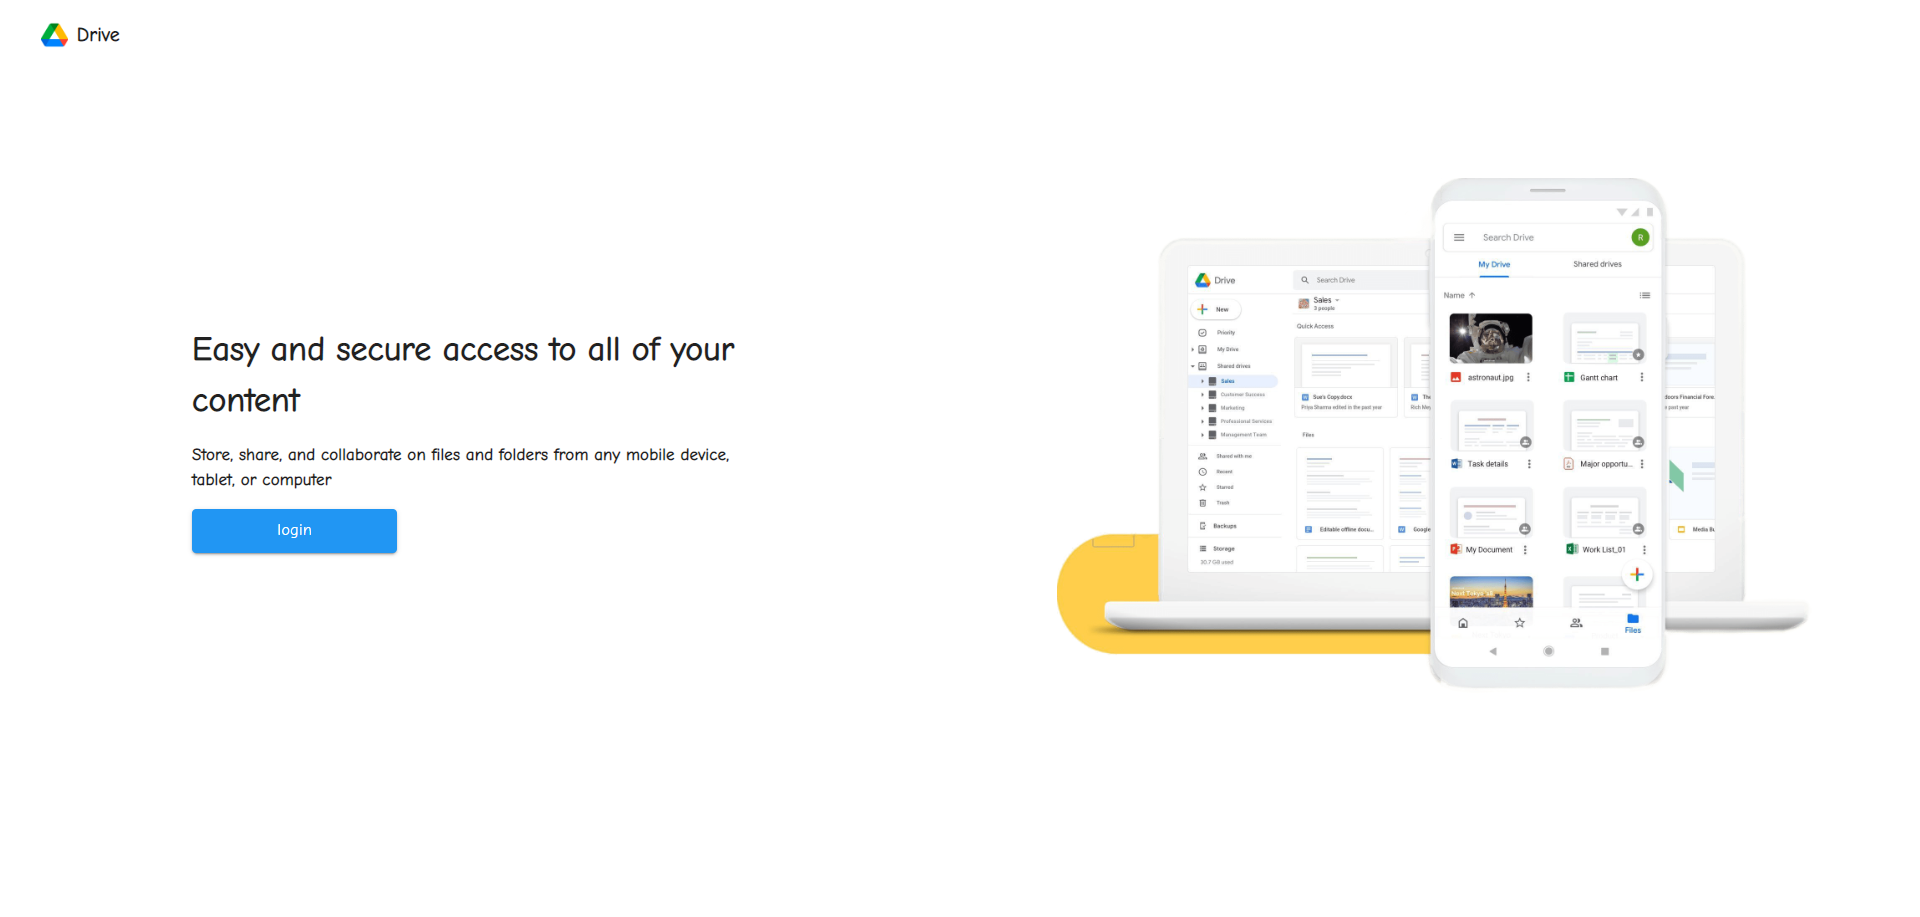
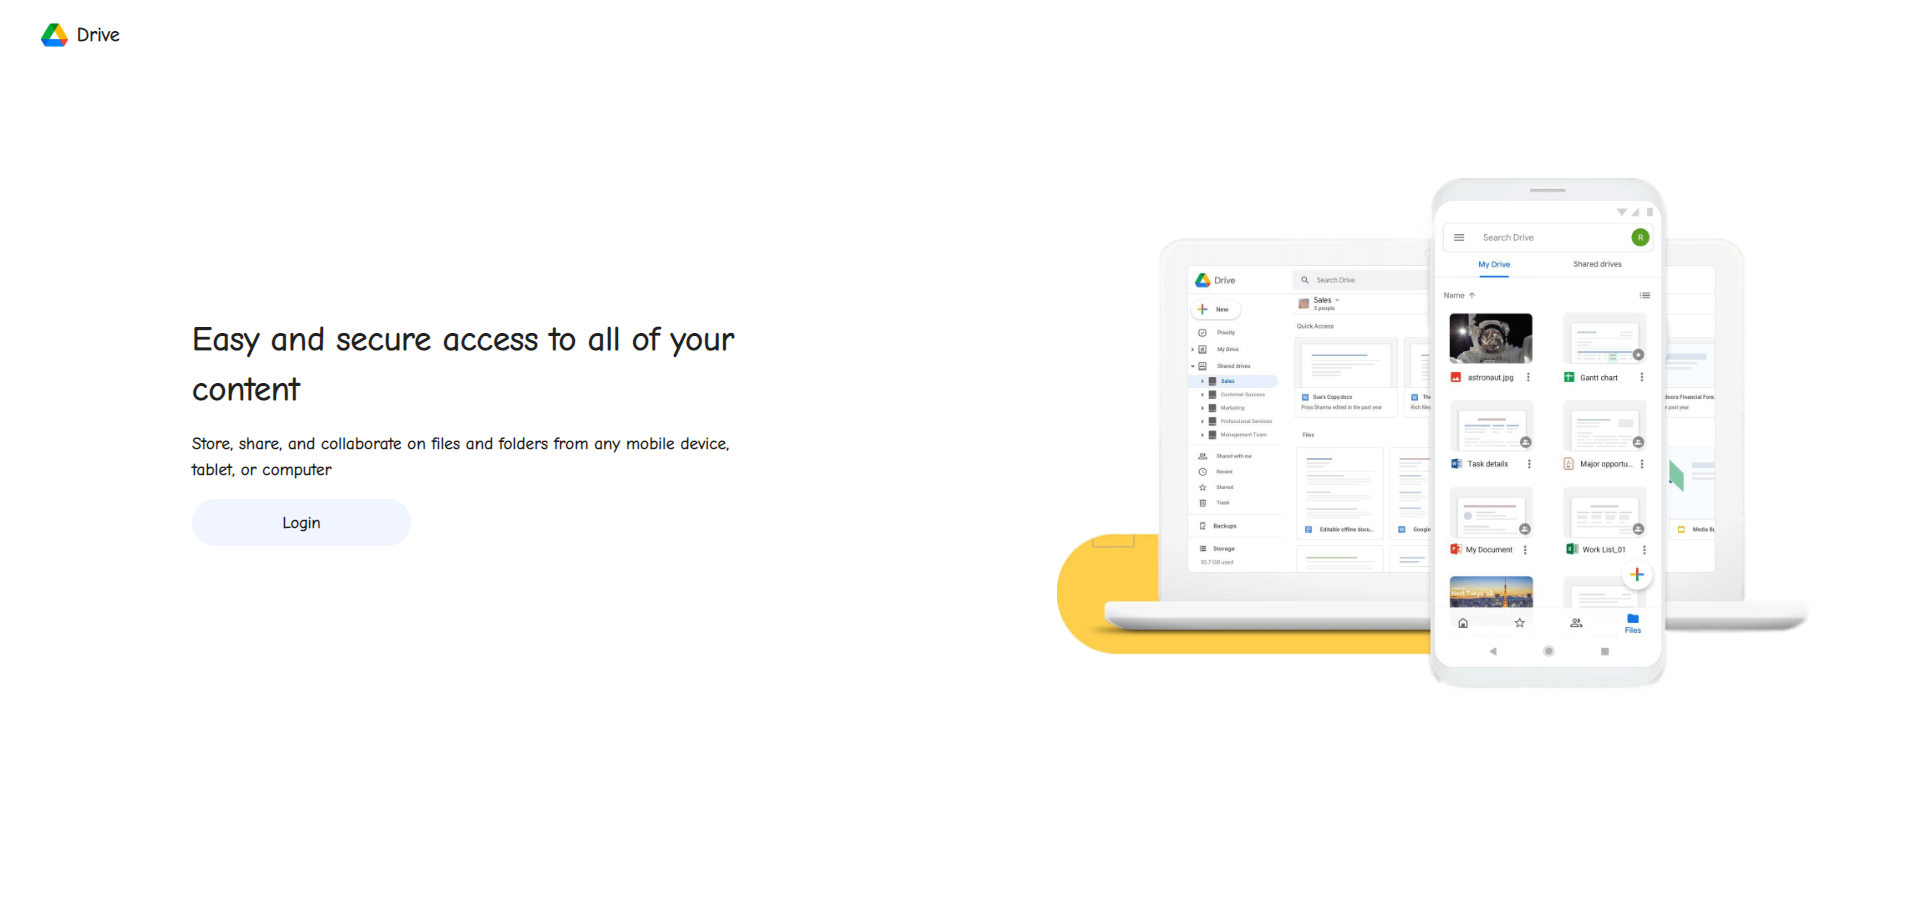
Readme update

Changed region(s): [[0.0938, 0.3362, 0.375, 0.6114], [0.75, 0.6419, 0.7812, 0.6725]]

diff --git a/client/src/components/Leftbar.js b/client/src/components/Leftbar.js
@@ -4,11 +4,11 @@ import DeleteOutlinedIcon from '@mui/icons-material/DeleteOutlined';
 import StarBorderPurple500OutlinedIcon from '@mui/icons-material/StarBorderPurple500Outlined';
 import AccessTimeOutlinedIcon from '@mui/icons-material/AccessTimeOutlined';
 import '../css/leftbar.css'
-import { Link } from "react-router-dom";
+import { NavLink } from "react-router-dom";
 import AddIcon from '@mui/icons-material/Add';
 import CreateNewFolderIcon from '@mui/icons-material/CreateNewFolder';
 import UploadFileIcon from '@mui/icons-material/UploadFile';
-import { Button, Dialog, DialogActions, DialogContent, DialogContentText, DialogTitle, Menu, MenuItem, TextField } from '@mui/material';
+import { Dialog, DialogActions, DialogContent, DialogContentText, DialogTitle, Menu, MenuItem, TextField } from '@mui/material';
 import { AppContext } from '../App'
 
 export const Leftbar = () => {
@@ -43,7 +43,7 @@ export const Leftbar = () => {
     }
     return (
         <div className='leftbar' style={{ width: '13%' }}>
-            <button onClick={handleClick} style={{ width: '45%', display: 'flex', flexDirection: 'row', justifyContent: 'center', alignItems: 'center', backgroundColor: 'rgba(0, 0, 0, 0.12)', outline: 'none', border: 'none', height: '39px', borderRadius: '32px', marginLeft: '22px', cursor: 'pointer', marginBottom: '7px', marginTop: '15px', color: 'inherit' }}><AddIcon style={{ marginRight: '6px', marginLeft: '-9px' }} /><h4>New</h4></button>
+            <button onClick={handleClick} style={{ width: '45%', display: 'flex', flexDirection: 'row', justifyContent: 'center', alignItems: 'center', backgroundColor: context.dark ? "rgb(61,102,94)" : '#F0F5FF', outline: 'none', border: 'none', height: '39px', borderRadius: '32px', marginLeft: '22px', cursor: 'pointer', marginBottom: '17px', marginTop: '15px', color: 'inherit' }}><AddIcon style={{  width: '27px', height: '25px',marginRight: '6px', marginLeft: '-9px' }} /><h4>New</h4></button>
             <Menu
                 id="basic-menu"
                 anchorEl={anchorEl}
@@ -57,7 +57,7 @@ export const Leftbar = () => {
                     onClick={() => { handleClickOpenDialog(); handleClose() }}
 
                 ><CreateNewFolderIcon style={{ width: '19px', height: '19px', marginRight: '15px' }} /><h5>New Folder</h5></MenuItem>
-                <input type="file" id="fileup" onChange={(e)=>{e.preventDefault();handleUpdate(e)}} hidden />
+                <input type="file" id="fileup" onChange={(e) => { e.preventDefault(); handleUpdate(e) }} hidden />
                 <label htmlFor="fileup">
                     <MenuItem sx={{ display: 'flex', flexDirection: 'row', alignItems: 'center', justifyContent: 'center', fontFamily: 'Comic Neue' }} >
                         <UploadFileIcon style={{ width: '19px', height: '19px', marginRight: '15px' }} /><h5>File Upload</h5>
@@ -82,26 +82,46 @@ export const Leftbar = () => {
                     />
                 </DialogContent>
                 <DialogActions>
-                    <Button sx={{ fontFamily: 'Comic Neue' }} onClick={handleCloseDialog}><h5>Cancel</h5></Button>
-                    <Button sx={{ fontFamily: 'Comic Neue' }} onClick={fileCreateHandle}><h5>Create</h5></Button>
+
+                    <button onClick={handleCloseDialog} style={{ width: '18%', display: 'flex', flexDirection: 'row', justifyContent: 'center', alignItems: 'center', backgroundColor: context.dark ? "rgb(61,102,94)" : '#F0F5FF', outline: 'none', border: 'none', height: '39px', borderRadius: '32px', marginLeft: '22px', cursor: 'pointer', marginBottom: '17px', marginTop: '15px', color: 'inherit' }}><h4>Cancel</h4></button>
+                    <button onClick={fileCreateHandle} style={{ width: '18%', display: 'flex', flexDirection: 'row', justifyContent: 'center', alignItems: 'center', backgroundColor: context.dark ? "rgb(61,102,94)" : '#F0F5FF', outline: 'none', border: 'none', height: '39px', borderRadius: '32px', marginLeft: '22px', cursor: 'pointer', marginBottom: '17px', marginTop: '15px', color: 'inherit', marginRight: '9px' }}><h4>Create</h4></button>
+
+                    {/* <Button sx={{ fontFamily: 'Comic Neue' }} onClick={handleCloseDialog}><h5>Cancel</h5></Button>
+                    <Button sx={{ fontFamily: 'Comic Neue' }} onClick={fileCreateHandle}><h5>Create</h5></Button> */}
                 </DialogActions>
             </Dialog>
-            <Link to="/mydrive" className="tags" style={{ marginLeft: '22px', display: 'flex', flexDirection: 'row', alignItems: 'center', marginBottom: '7px', marginTop: '7px', textDecoration: 'none', height: '39px', paddingLeft: '9px', borderRadius: '7px 25px 25px 7px', textDecorationColor: 'none', color: 'inherit' }}>
-                <AddToDriveOutlinedIcon style={{ width: '19px', height: '19px', marginRight: '15px' }} />
-                <h5>My Drive</h5>
-            </Link>
-            <Link to="/recent" className="tags" style={{ marginLeft: '22px', display: 'flex', flexDirection: 'row', alignItems: 'center', marginBottom: '7px', marginTop: '7px', textDecoration: 'none', height: '39px', paddingLeft: '9px', borderRadius: '7px 25px 25px 7px', textDecorationColor: 'none', color: 'inherit' }}>
-                <AccessTimeOutlinedIcon style={{ width: '19px', height: '19px', marginRight: '15px' }} />
+            <NavLink to="/mydrive"
+                className={({ isActive }) =>
+                    isActive ? context.dark ? "tagsdark darkactive" : "tags lightactive" : context.dark ? "tagsdark" : "tags"
+                }
+                style={{ marginLeft: '22px', display: 'flex', flexDirection: 'row', alignItems: 'center', marginBottom: '7px', marginTop: '7px', textDecoration: 'none', height: '39px', paddingLeft: '9px', borderRadius: '7px 25px 25px 7px', textDecorationColor: 'none', color: 'inherit' }}>
+                <AddToDriveOutlinedIcon style={{ width: '23px', height: '22px', marginRight: '15px' }} />
+                <h5 >My Drive</h5>
+            </NavLink>
+            <NavLink
+                className={({ isActive }) =>
+                    isActive ? context.dark ? "tagsdark darkactive" : "tags lightactive" : context.dark ? "tagsdark" : "tags"
+                }
+                to="/recent" style={{ marginLeft: '22px', display: 'flex', flexDirection: 'row', alignItems: 'center', marginBottom: '7px', marginTop: '7px', textDecoration: 'none', height: '39px', paddingLeft: '9px', borderRadius: '7px 25px 25px 7px', textDecorationColor: 'none', color: 'inherit' }}>
+                <AccessTimeOutlinedIcon style={{ width: '23px', height: '22px', marginRight: '15px' }} />
                 <h5>Recent</h5>
-            </Link>
-            <Link to="/starred" className="tags" style={{ marginLeft: '22px', display: 'flex', flexDirection: 'row', alignItems: 'center', marginBottom: '7px', marginTop: '7px', textDecoration: 'none', height: '39px', paddingLeft: '9px', borderRadius: '7px 25px 25px 7px', textDecorationColor: 'none', color: 'inherit' }}>
-                <StarBorderPurple500OutlinedIcon style={{ width: '19px', height: '19px', marginRight: '15px' }} />
+            </NavLink>
+            <NavLink
+                className={({ isActive }) =>
+                    isActive ? context.dark ? "tagsdark darkactive" : "tags lightactive" : context.dark ? "tagsdark" : "tags"
+                }
+                to="/starred" style={{ marginLeft: '22px', display: 'flex', flexDirection: 'row', alignItems: 'center', marginBottom: '7px', marginTop: '7px', textDecoration: 'none', height: '39px', paddingLeft: '9px', borderRadius: '7px 25px 25px 7px', textDecorationColor: 'none', color: 'inherit' }}>
+                <StarBorderPurple500OutlinedIcon style={{ width: '23px', height: '22px', marginRight: '15px' }} />
                 <h5>Starred</h5>
-            </Link>
-            <Link to="/trash" className="tags" style={{ marginLeft: '22px', display: 'flex', flexDirection: 'row', alignItems: 'center', marginBottom: '7px', marginTop: '7px', textDecoration: 'none', height: '39px', paddingLeft: '9px', borderRadius: '7px 25px 25px 7px', textDecorationColor: 'none', color: 'inherit' }}>
-                <DeleteOutlinedIcon style={{ width: '19px', height: '19px', marginRight: '15px' }} />
+            </NavLink>
+            <NavLink
+                className={({ isActive }) =>
+                    isActive ? context.dark ? "tagsdark darkactive" : "tags lightactive" : context.dark ? "tagsdark" : "tags"
+                }
+                to="/trash" style={{ marginLeft: '22px', display: 'flex', flexDirection: 'row', alignItems: 'center', marginBottom: '7px', marginTop: '7px', textDecoration: 'none', height: '39px', paddingLeft: '9px', borderRadius: '7px 25px 25px 7px', textDecorationColor: 'none', color: 'inherit' }}>
+                <DeleteOutlinedIcon style={{ width: '23px', height: '22px', marginRight: '15px' }} />
                 <h5>Trash</h5>
-            </Link>
+            </NavLink>
         </div>
     )
 }

diff --git a/client/src/components/Navbar.js b/client/src/components/Navbar.js
@@ -1,4 +1,4 @@
-import React, { } from 'react'
+import React, { useContext } from 'react'
 import logo from '../assets/logo.png'
 import Avatar from '@mui/material/Avatar';
 // import AppsIcon from '@mui/icons-material/Apps';
@@ -8,10 +8,11 @@ import MenuItem from '@mui/material/MenuItem';
 import { Box, LinearProgress } from '@mui/material';
 import LogoutIcon from '@mui/icons-material/Logout';
 import Brightness4Icon from '@mui/icons-material/Brightness4';
-
+import { AppContext } from '../App';
+import '../css/Navbar.css'
 
 export const Navbar = (props) => {
-
+    const context = useContext(AppContext)
     const [anchorEl, setAnchorEl] = React.useState(null);
     const open = Boolean(anchorEl);
     const handleClick = (event) => {
@@ -24,7 +25,7 @@ export const Navbar = (props) => {
 
 
     return (<>
-        <Box className='navbar' sx={{ borderBottom: 1, borderColor: 'divider' }} style={{ width: '100%', display: "flex", flexDirection: 'row', alignItems: 'center', height: '72' }}>
+        <Box className='navbar' sx={{ borderBottom: 1, borderColor: 'divider' }} style={{ width: '100%', display: "flex", flexDirection: 'row', alignItems: 'center', height: '72', }}>
 
             <div className="left" style={{ width: '24%', }}>
                 <div className="logo" style={{ display: 'flex', flexDirection: 'row', alignItems: 'center', marginTop: '19px', marginBottom: '19px', cursor: 'pointer' }}>
@@ -33,8 +34,8 @@ export const Navbar = (props) => {
                 </div>
             </div>
             <div className="right" style={{ display: 'flex', flexDirection: 'row', alignItems: 'center', width: '80%' }}>
-                <Box sx={{ bgcolor: 'divider' }} className="searchbar" style={{ width: '838px', display: 'flex', flexDirection: 'row', alignItems: 'center', height: '38px', borderRadius: '7px', color: 'inherit' }}>
-                    <input placeholder='Seach Drive' type="text" style={{ backgroundColor: 'transparent', border: 'none', outline: 'none', width: '93.8%', height: 'inherit', paddingLeft: '18px', color: 'inherit' }} />
+                <Box className="searchbar" style={{ width: '838px', display: 'flex', flexDirection: 'row', alignItems: 'center', height: '42px', borderRadius: '17px', color: 'inherit',backgroundColor:context.dark?'rgb(61,102,94)':'rgb(240, 245, 255)' }}>
+                    <input placeholder='Seach Drive' type="text" className={context.dark?'indark':''} style={{ backgroundColor: 'transparent', border: 'none', outline: 'none', width: '93.8%', height: 'inherit', paddingLeft: '18px', color: 'inherit',marginLeft:'1%' }} />
                     <SearchIcon style={{ width: '24px', height: '20px', cursor: 'pointer' }}></SearchIcon>
                 </Box>
                 <div className="user_settings" style={{ marginLeft: 'auto', display: 'flex', flexDirection: 'row', alignItems: 'center', marginRight: '11px' }}>

diff --git a/client/src/pages/Login.js b/client/src/pages/Login.js
@@ -1,8 +1,8 @@
-import { Box, Button } from '@mui/material'
+import { Box } from '@mui/material'
 import React, { useContext } from 'react'
 import { UnloggedNav } from '../components/UnloggedNav'
 import { getAuth, signInWithPopup } from "firebase/auth";
-import { provider } from '../config'
+import { provider } from '../firebase'
 import drive from '../assets/drive-bg-1.png'
 import { url } from '../BaseUrl';
 import axios from 'axios'
@@ -37,7 +37,8 @@ export const Login = (props) => {
                     <div className="somebigtext" style={{ width: '60%' }}>
                         <h1 style={{ marginBottom: '16px' }}> Easy and secure access to all of your content</h1>
                         <p style={{ marginBottom: '16px' }}>Store, share, and collaborate on files and folders from any mobile device, tablet, or computer</p>
-                        <Button onClick={loginfunc} variant="contained" style={{ textTransform: 'lowercase', width: '195px', height: '42px', fontFamily: 'Comic Neue', color: 'white', fontSize: '15px', backgroundColor: '#2196f3' }}>Login</Button>
+                        <button onClick={loginfunc} style={{ width: '38%', display: 'flex', flexDirection: 'row', justifyContent: 'center', alignItems: 'center', backgroundColor: context.dark ? "rgb(61,102,94)" : '#F0F5FF', outline: 'none', border: 'none', height: '45px', borderRadius: '32px', cursor: 'pointer', marginBottom: '17px', marginTop: '15px', color: 'inherit' }}><h3>Login</h3></button>
+                        {/* <Button onClick={loginfunc} variant="contained" style={{ textTransform: 'lowercase', width: '195px', height: '42px', fontFamily: 'Comic Neue', color: 'white', fontSize: '15px', backgroundColor: '#2196f3' }}>Login</Button> */}
                     </div>
                 </div>
                 <div className="right" style={{ width: '50%', display: 'flex', justifyContent: 'center', alignItems: 'center' }}>

diff --git a/client/src/components/Cardc.js b/client/src/components/Cardc.js
@@ -7,7 +7,7 @@ export const Cardc = (props) => {
     <a href={`${props.link}`} target="_blank" rel="noreferrer" style={{textDecoration:'none',color:'inherit'}}> 
       <Box className='card' sx={{ border: 1, borderColor: 'divider' }} style={{ width: '234px', height: '150px', borderRadius: '5px', display: 'flex', flexDirection: 'column', marginRight: '13px', marginTop: '19px',overflow:'hidden' }}>
         <div href={props.url} className='card' style={{ position: 'relative', background: `url(${props.url})`, overflow: 'hidden', height: '75%', width: '100%', display: 'flex', justifyContent: 'center', alignItems: 'center' }}>
-          <img src={props.img} alt="" />
+          <img src={props.img} alt="" style={{width:'100%'}} />
         </div>
         <div className='folder' style={{ display: 'flex', flexDirection: 'row', alignItems: 'center', width: '234px', height: '39px', marginRight: '13px', marginTop: '3px' }}>
           <ImageIcon style={{ width: '20px', marginLeft: '9px' }} /> <h5 style={{ marginLeft: '9px', color: 'inherit' }}>{props.name.length>25?props.name.slice(0,20)+"...":props.name}</h5>

diff --git a/client/src/App.js b/client/src/App.js
@@ -13,6 +13,7 @@ import CssBaseline from '@mui/material/CssBaseline';
 import axios from 'axios'
 import { url } from './BaseUrl'
 import { ref, uploadBytesResumable, getDownloadURL, getStorage } from "firebase/storage";
+import { Redirect } from "./pages/Redirect";
 
 
 export const AppContext = React.createContext()
@@ -90,7 +91,7 @@ function App() {
   }
 
   const ContextValue = {
-    auth, mainFolder, setMainFolder, currentFolder, setCurrentFolder, newFolderCreate, fileUpload, loading, setLoading
+    auth, mainFolder, setMainFolder, currentFolder, setCurrentFolder, newFolderCreate, fileUpload, loading, setLoading,dark
   }
 
 
@@ -120,6 +121,11 @@ function App() {
         <CssBaseline>
           <AppContext.Provider value={ContextValue}>
             <Routes>
+            <Route path="/" element={
+                <div className="App">
+                  <Redirect/>
+                </div>}
+              />
               <Route path="/:page" element={
                 <div className="App">
                   {

diff --git a/client/src/firebase.js b/client/src/firebase.js
@@ -1,5 +1,8 @@
 import { initializeApp } from "firebase/app";
 import { getStorage } from "firebase/storage";
+import { GoogleAuthProvider } from "firebase/auth";
+
+
 const firebaseConfig = {
     apiKey: "AIzaSyDNwH47dDFv_1GmjOiK_Rf9Il8wdIoskY8",
     authDomain: "drive498react.firebaseapp.com",
@@ -10,3 +13,4 @@ const firebaseConfig = {
   };
 const app = initializeApp(firebaseConfig);
 export const storage = getStorage(app);
+export const provider = new GoogleAuthProvider();

diff --git a/client/src/css/leftbar.css b/client/src/css/leftbar.css
@@ -1,4 +1,12 @@
 .tags:hover{
-    background-color: rgba(0, 0, 0, 0.12);
-    color:#dddddd
+    background-color:rgb(240, 245, 255) ;
+}
+.tagsdark:hover{
+    background-color: rgb(61,102,94);
+}
+.lightactive{
+    background-color:rgb(240, 245, 255) ;
+}
+.darkactive{
+    background-color: rgb(61,102,94);
 }

diff --git a/client/src/pages/Redirect.js b/client/src/pages/Redirect.js
@@ -1,0 +1,12 @@
+import { useEffect } from "react"
+import { useNavigate } from "react-router-dom"
+
+export function Redirect() {
+   const navigate= useNavigate()
+    useEffect(()=>{
+        navigate('/mydrive')
+    },[navigate])
+  return (
+    null
+  )
+}

diff --git a/client/src/BaseUrl.js b/client/src/BaseUrl.js
@@ -1,1 +1,1 @@
-export const url="http://localhost:8000"
+export const url=process.env.REACT_APP_API_URL

diff --git a/client/src/css/Navbar.css b/client/src/css/Navbar.css
@@ -1,0 +1,3 @@
+.indark::placeholder{
+    color:rgb(220, 220, 220)
+}

diff --git a/README.md b/README.md
@@ -1,5 +1,35 @@
-### Google Drive Clone
+<h1 align="center">Google Drive Clone</h1>
 
-#### overview :
-<img src="./images/1.png" />
+### Features
+- Login using Google
+- Upload Files and Create New Folder
+- Dark Mode
+- Material 13 
+- Nested Complex Folder Structure
+
+### Tech Used
+- ReactJS with MUI
+- NodeJS and Express
+- MongoDB for complex nested folder structure
+- Firebase Storage 
+
+### Project Structure
+    
+    ├── client          # React App
+    │   ├── public         
+    │   └── src           # React Components
+    |          
+    ├── images               # Screenshots
+    ├── server                  # Node Server
+    ├── LICENSE
+    └── README.md
+
+
+
+### overview 
 <img src="./images/4.png" />
+<img src="./images/5.png" />
+<img src="./images/1.png" />
+<img src="./images/3.png" />
+<img src="./images/2.png" />
+
